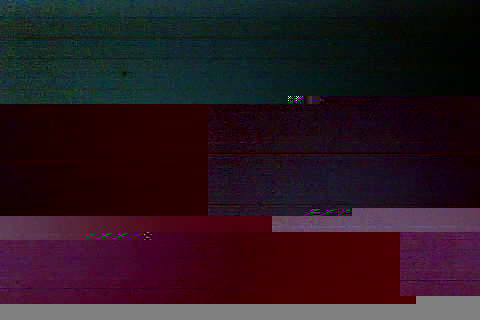
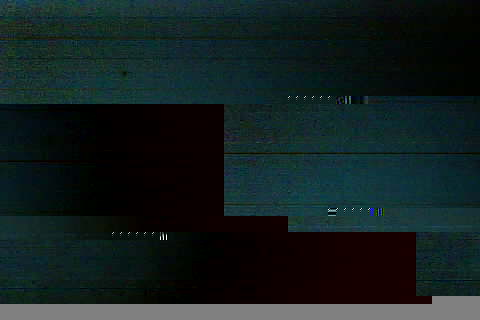
blankPacket updates

diff --git a/aprs2image.py b/aprs2image.py
@@ -63,7 +63,7 @@ def main():
         # Create a  generator for all the points in the ResultSet that match the given filters (none)
         QueryGenerator = QueryResultSet.get_points()
         # Packet to add if we get a missing packet
-        blankPacket = '0' * 200
+        blankPacket = 'A' * 200
 
     # Initialise variables
     imageName = False
